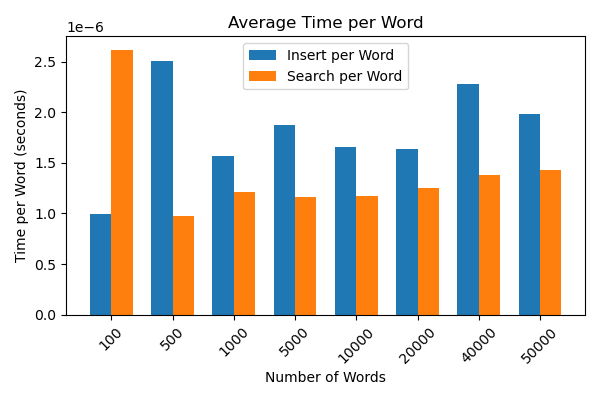
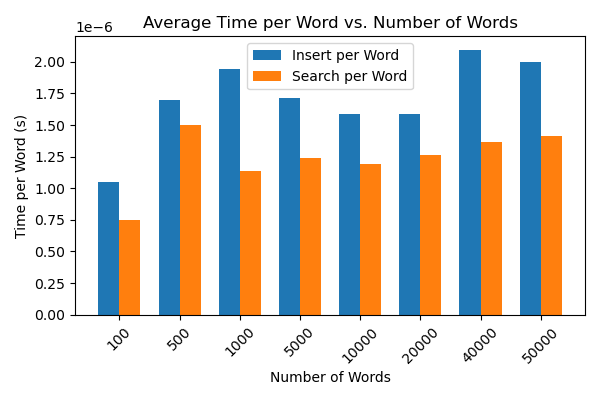
Update project files, plots, and analysis

diff --git a/run_demo.py b/run_demo.py
@@ -1,66 +1,71 @@
 """
-demo_tst_with_real_data.py
+benchmark_tst.py
 
-Demonstrates the usage of Ternary Search Tree (TST) with the real project dataset.
-Features:
-- Insertion of words from file
-- Search and negative search checks
-- Prefix search example
-- Word count
-- Retrieve all stored words
-- ASCII tree visualization
+Benchmarks Ternary Search Tree (TST) insert and search performance using a large English word list.
+Generates and saves two plots: total operation time and average time per word.
 """
 
+import time
+import matplotlib.pyplot as plt
 from ternary_search_tree import TernarySearchTree
 
-# Data path (update if your path changes)
 DATA_PATH = "/Users/tanjimhossain/Documents/Concepts of Data Science/CDS_final-project/data/search_trees/"
 
-# Load insert words
-with open(DATA_PATH + "insert_words.txt") as f:
-    insert_words = [line.strip() for line in f if line.strip()]
+# Load a large list of words
+with open(DATA_PATH + "corncob_lowercase.txt") as f:
+    all_words = [line.strip() for line in f if line.strip()]
 
-# Load not-insert words
-with open(DATA_PATH + "not_insert_words.txt") as f:
-    not_insert_words = [line.strip() for line in f if line.strip()]
+# Choose different sizes for benchmarking
+sizes = [100, 500, 1000, 5000, 10000, 20000, 40000, 50000]
+insert_times = []
+search_times = []
 
-# Build tree
-tst = TernarySearchTree()
-for word in insert_words:
-    tst.insert(word)
+for size in sizes:
+    print(f"Benchmarking for size {size}...")
+    words = all_words[:size]
+    tst = TernarySearchTree()
+    
+    # Time insertion
+    t0 = time.time()
+    for word in words:
+        tst.insert(word)
+    insert_times.append(time.time() - t0)
+    
+    # Time search
+    t0 = time.time()
+    for word in words:
+        tst.search(word)
+    search_times.append(time.time() - t0)
 
-print("\n--- TST Demo with Real Dataset ---")
-print("Total words inserted:", len(insert_words))
+# Plot 1: Total Insert & Search Time
+plt.figure(num=1, figsize=(8,5))
+plt.plot(sizes, insert_times, marker='o', label="Insert Time")
+plt.plot(sizes, search_times, marker='o', label="Search Time")
+plt.xlabel("Number of Words")
+plt.ylabel("Total Time (seconds)")
+plt.title("Ternary Search Tree Performance: Insert & Search")
+plt.legend()
+plt.grid(True)
+plt.tight_layout()
+plt.savefig("TST_total_time.png")
+plt.show()
 
-# Check: all inserted words are found
-all_inserted_found = all(tst.search(word) for word in insert_words)
-print("All inserted words found?", all_inserted_found)
+# Plot 2: Average Time per Word
+per_word_insert = [t/s for t,s in zip(insert_times, sizes)]
+per_word_search = [t/s for t,s in zip(search_times, sizes)]
+x = range(len(sizes))
+width = 0.35
 
-# Check: all not-inserted words are NOT found
-all_not_inserted_not_found = all(not tst.search(word) for word in not_insert_words)
-print("All not-inserted words not found?", all_not_inserted_not_found)
+plt.figure(num=2, figsize=(6,4))
+plt.bar(x, per_word_insert, width, label="Insert per Word")
+plt.bar([i+width for i in x], per_word_search, width, label="Search per Word")
+plt.xticks([i+width/2 for i in x], sizes, rotation=45)
+plt.xlabel("Number of Words")
+plt.ylabel("Time per Word (seconds)")
+plt.title("Average Time per Word")
+plt.legend()
+plt.tight_layout()
+plt.savefig("TST_avg_time.png")
+plt.show()
 
-# Print some example searches
-if insert_words:
-    print(f"Example: search '{insert_words[0]}':", tst.search(insert_words[0]))
-if not_insert_words:
-    print(f"Example: search '{not_insert_words[0]}':", tst.search(not_insert_words[0]))
-
-# Prefix search example
-if insert_words:
-    prefix = insert_words[0][:2]
-    prefix_results = tst.prefix_search(prefix)
-    print(f"Prefix search for '{prefix}': (showing up to 5 results)", prefix_results[:5])
-
-# Count words
-print("TST count (number of unique words):", tst.count())
-
-# List all words (just preview the first 10)
-all_words = tst.all_strings()
-print("First 10 words in TST:", all_words[:10])
-
-# ASCII tree display (can be large for a big dataset)
-print("\nASCII Display (partial tree):")
-tst.ascii_display()
-
-print("\nDEMO COMPLETE\n")
+print("\nBenchmark complete! Plots saved as 'TST_total_time.png' and 'TST_avg_time.png'.")
